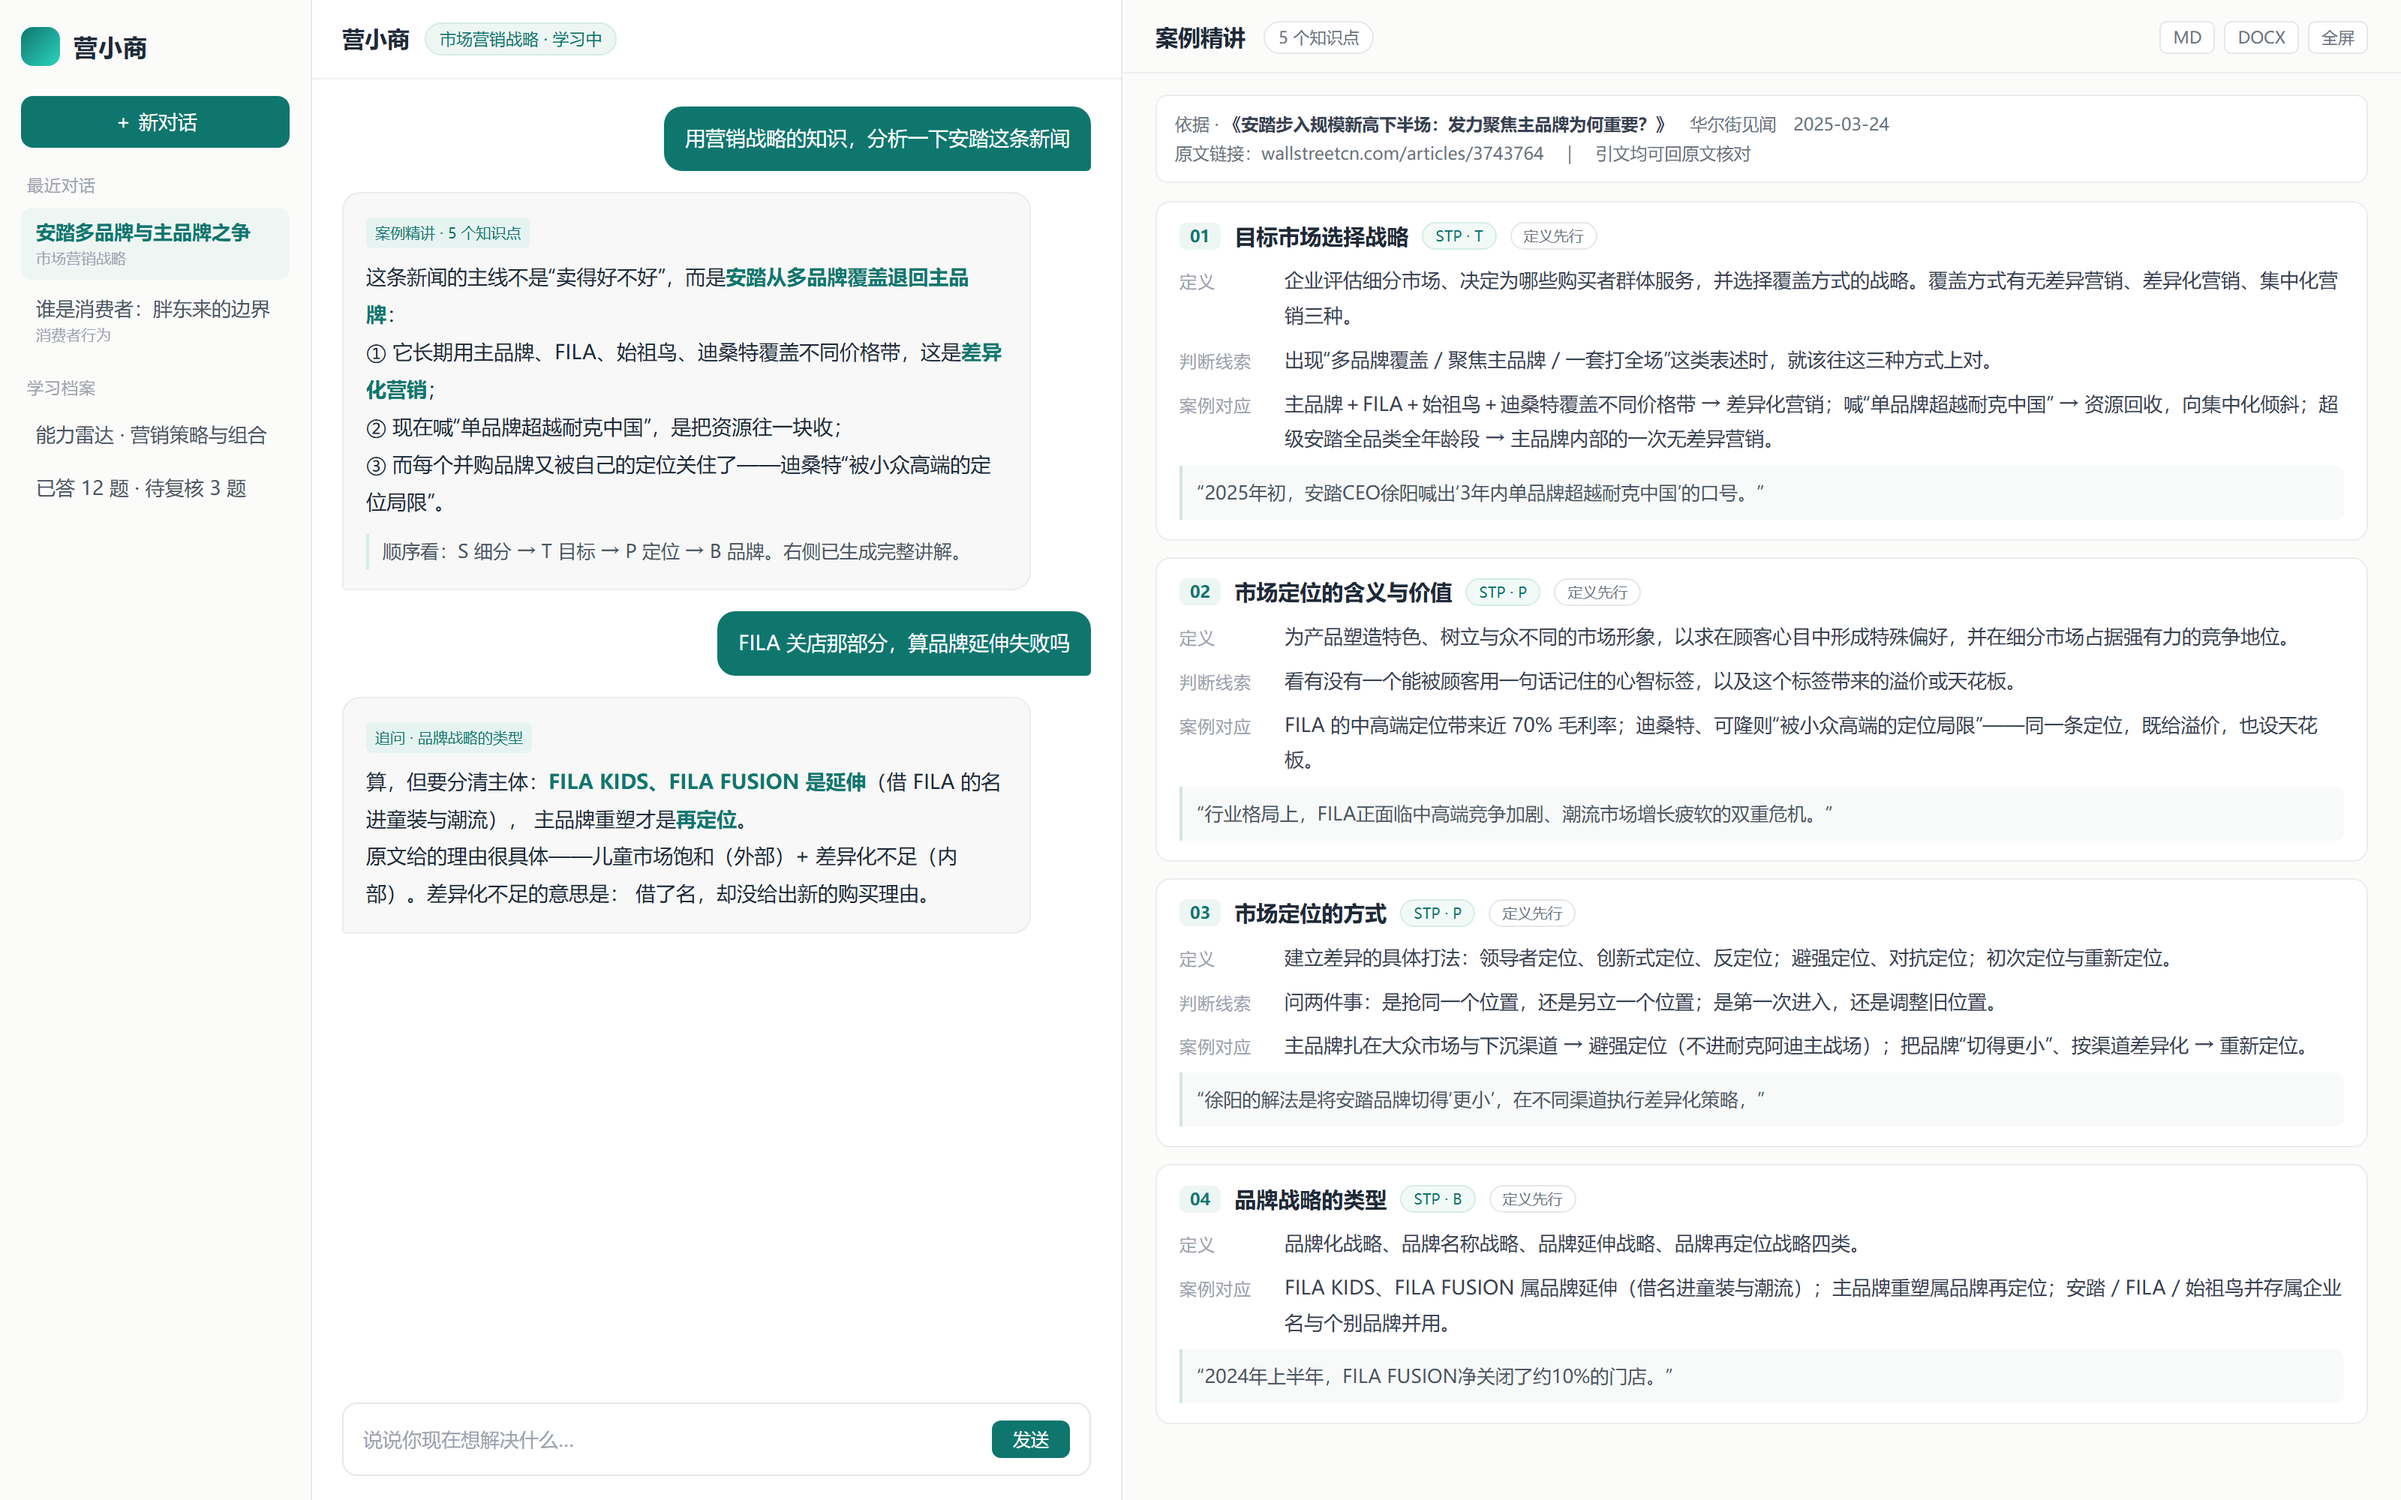
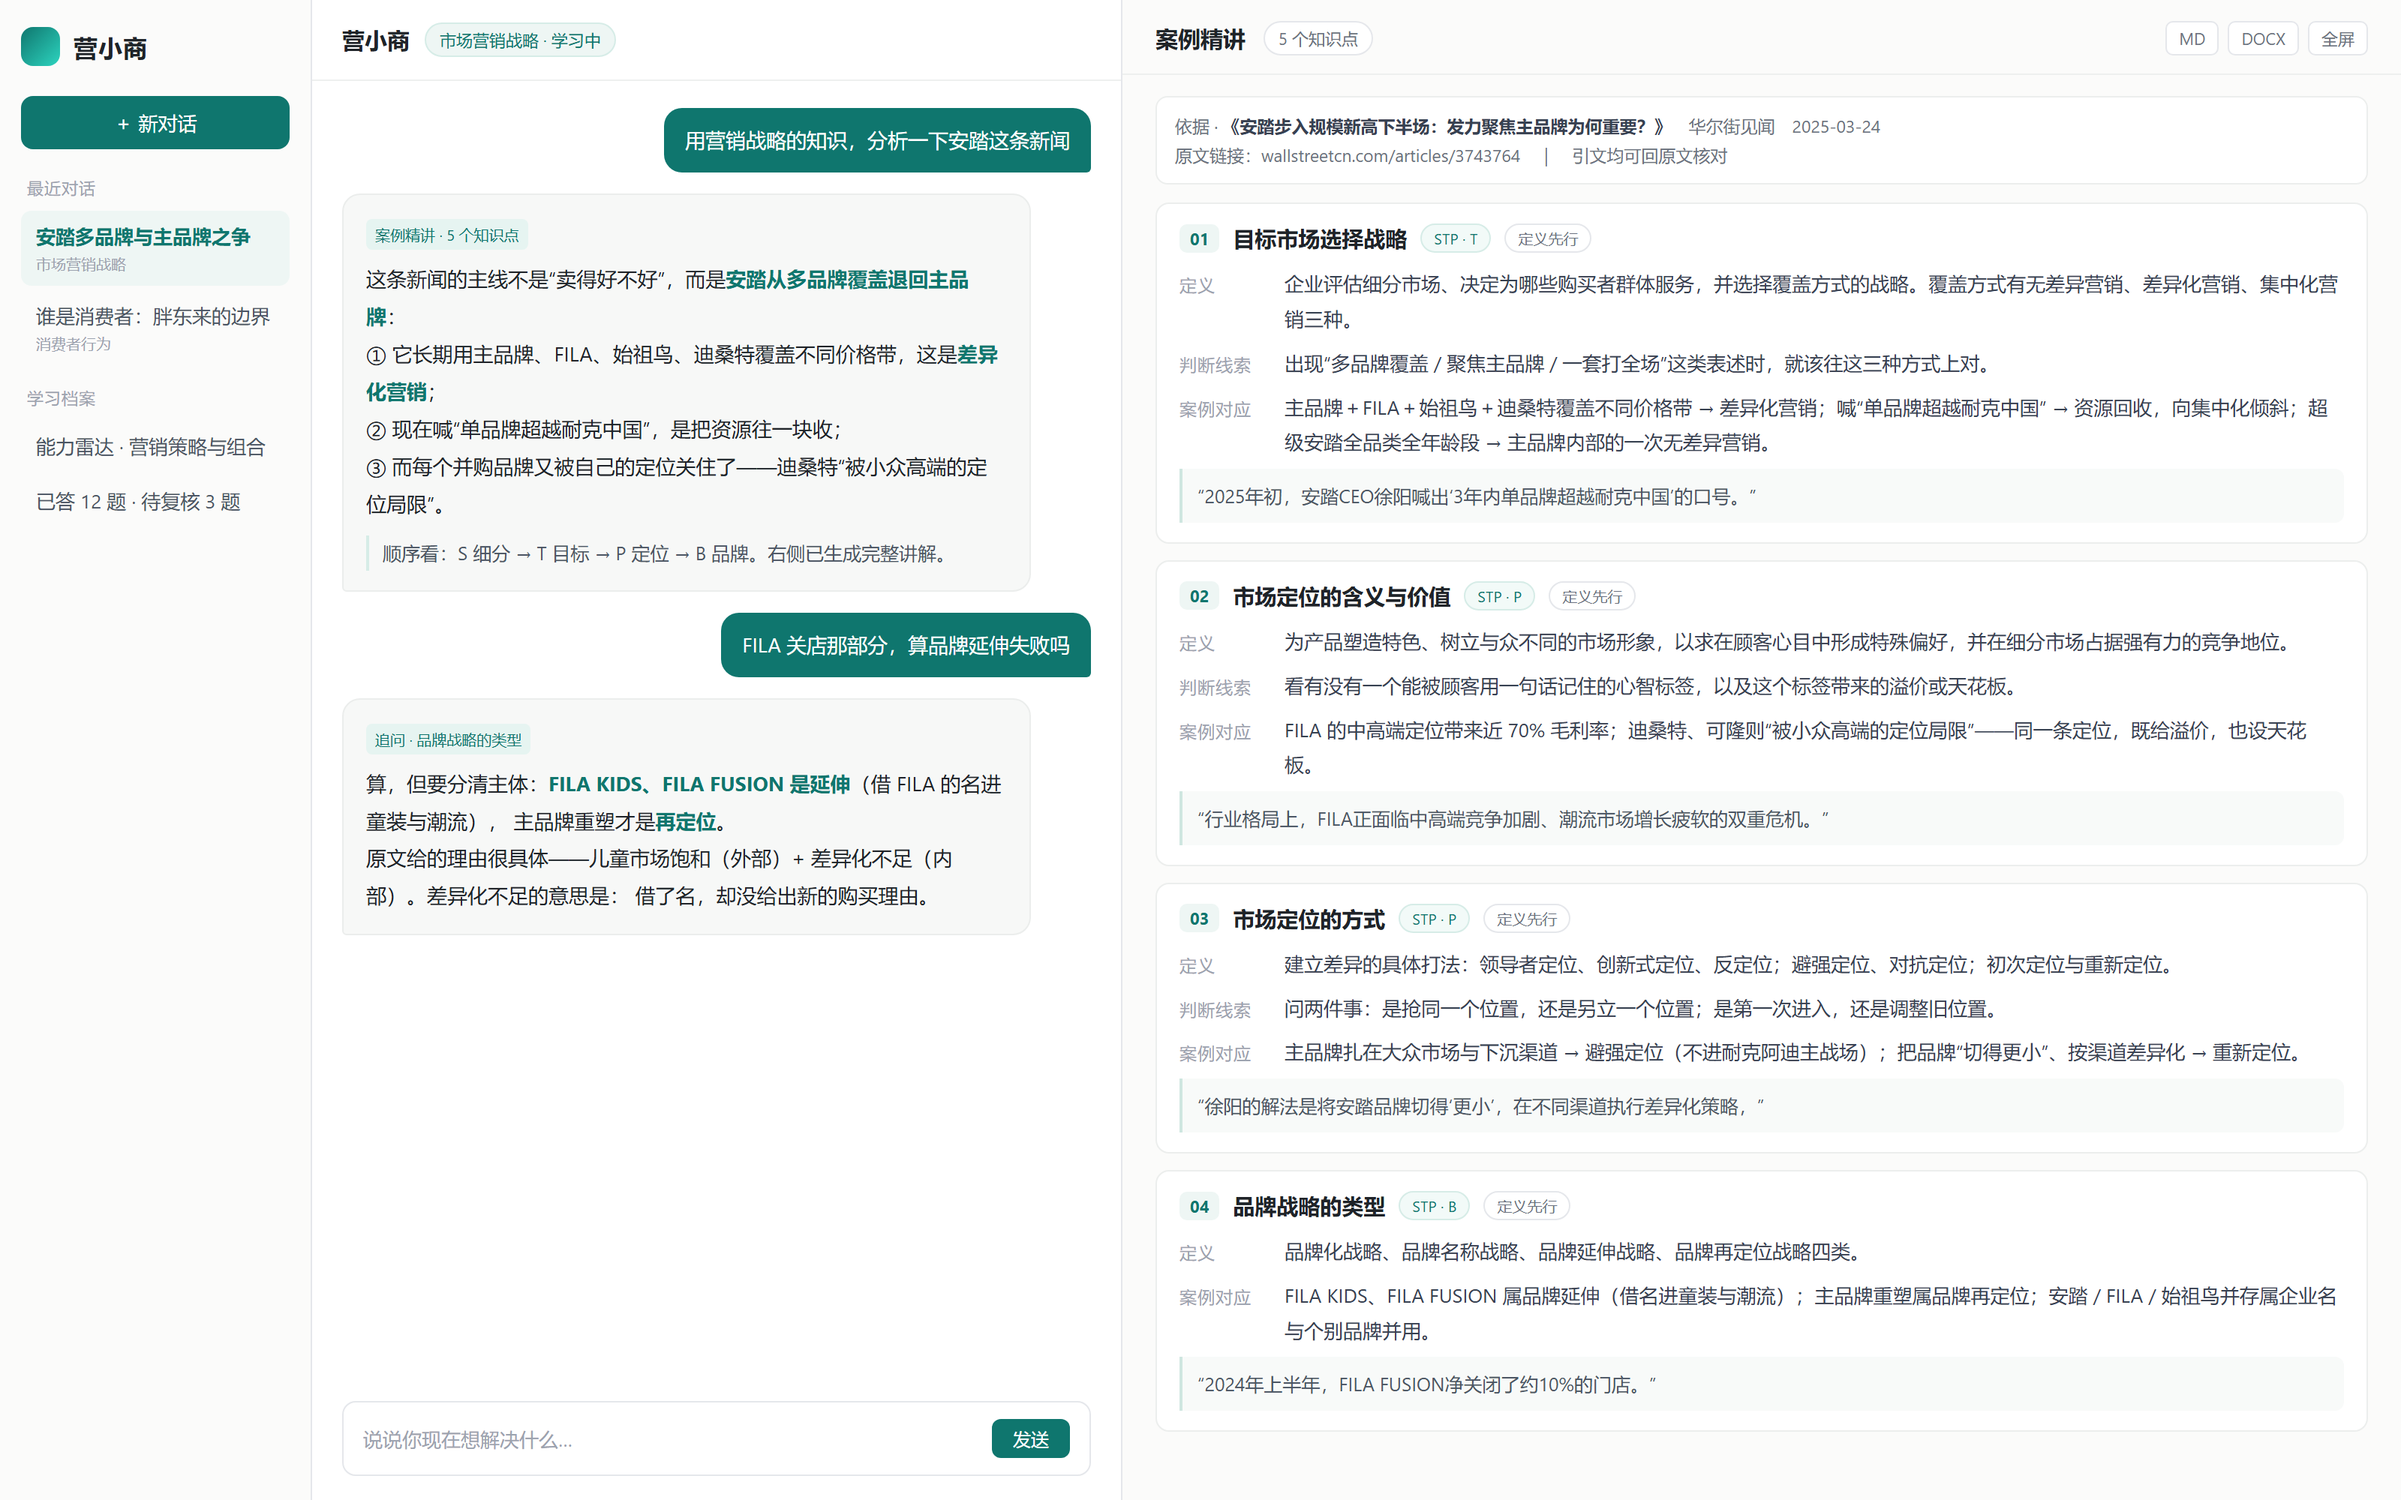
docs(case): 预览图对齐真实设计 token
对照 apps/desktop/src/renderer/src/styles.css 修正：
- 字体：优先 Segoe UI（原来是 Microsoft YaHei UI）
- 背景：#f6f7f6 → #f7f7f5
- 正文色：#1f2937 → #1f2328
- 边框：#e8e9e8 → #e5e7eb
- 圆角：10px → 9px

只改样式变量，不动结构。布局等桌面端三栏稳定后再重排。

diff --git a/docs/cases/preview/anta-stpb-panel.html b/docs/cases/preview/anta-stpb-panel.html
@@ -7,14 +7,14 @@
   * { box-sizing: border-box; margin: 0; padding: 0; }
   body {
     width: 1600px; height: 1000px; overflow: hidden;
-    font-family: "Microsoft YaHei UI", "Microsoft YaHei", "PingFang SC", sans-serif;
-    background: #f6f7f6; color: #1f2937; font-size: 14px;
+    font-family: "Segoe UI", "Microsoft YaHei", "PingFang SC", system-ui, sans-serif;
+    background: #f7f7f5; color: #1f2328; font-size: 14px;
     -webkit-font-smoothing: antialiased;
   }
   .app { display: flex; height: 100%; }
 
   /* ---------- 左侧栏 ---------- */
-  .side { width: 208px; background: #fbfbfa; border-right: 1px solid #e8e9e8; padding: 18px 14px; }
+  .side { width: 208px; background: #fbfbfa; border-right: 1px solid #e5e7eb; padding: 18px 14px; }
   .brand { display: flex; align-items: center; gap: 9px; margin-bottom: 20px; }
   .brand .dot { width: 26px; height: 26px; border-radius: 8px; background: linear-gradient(135deg,#0f766e,#2dd4bf); }
   .brand b { font-size: 16px; letter-spacing: .5px; }
@@ -26,7 +26,7 @@
   .item small { display: block; font-size: 10px; color: #9ca3af; font-weight: 400; margin-top: 3px; }
 
   /* ---------- 中间对话 ---------- */
-  .chat { width: 540px; display: flex; flex-direction: column; border-right: 1px solid #e8e9e8; background: #fff; }
+  .chat { width: 540px; display: flex; flex-direction: column; border-right: 1px solid #e5e7eb; background: #fff; }
   .chat-head { padding: 15px 20px; border-bottom: 1px solid #eef0ef; display: flex; align-items: center; gap: 10px; }
   .chat-head b { font-size: 15px; }
   .chip { font-size: 11px; color: #0f766e; background: #eef6f4; border: 1px solid #d6ece7;
@@ -40,7 +40,7 @@
             border-radius: 4px; padding: 1px 6px; margin-bottom: 7px; }
   .a b { color: #0f766e; }
   .a .q { margin-top: 9px; padding-left: 9px; border-left: 2px solid #d6ece7; color: #4b5563; font-size: 12.5px; }
-  .input { margin: 0 20px 16px; border: 1px solid #e5e7eb; border-radius: 10px; padding: 11px 13px;
+  .input { margin: 0 20px 16px; border: 1px solid #e5e7eb; border-radius: 9px; padding: 11px 13px;
            color: #9ca3af; font-size: 13px; display: flex; justify-content: space-between; align-items: center; }
   .send { background: #0f766e; color: #fff; border-radius: 6px; padding: 5px 14px; font-size: 12px; }
 
@@ -59,7 +59,7 @@
          border-radius: 8px; padding: 9px 12px; margin-bottom: 12px; line-height: 1.7; }
   .src b { color: #374151; }
 
-  .kp { background: #fff; border: 1px solid #eceeed; border-radius: 10px; padding: 13px 15px; margin-bottom: 11px; }
+  .kp { background: #fff; border: 1px solid #eceeed; border-radius: 9px; padding: 13px 15px; margin-bottom: 11px; }
   .kp-h { display: flex; align-items: center; gap: 9px; margin-bottom: 9px; }
   .no { font-size: 11px; color: #0f766e; background: #eef6f4; border-radius: 5px; padding: 2px 7px; font-weight: 700; }
   .kp-h .name { font-size: 14.5px; font-weight: 700; }
